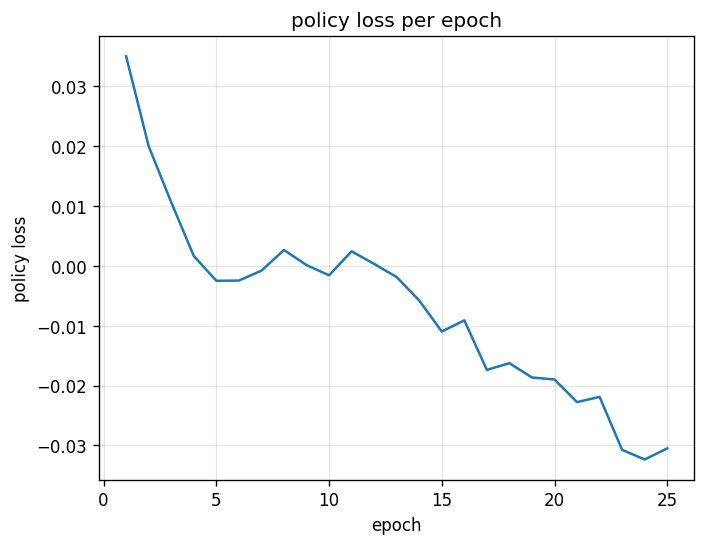
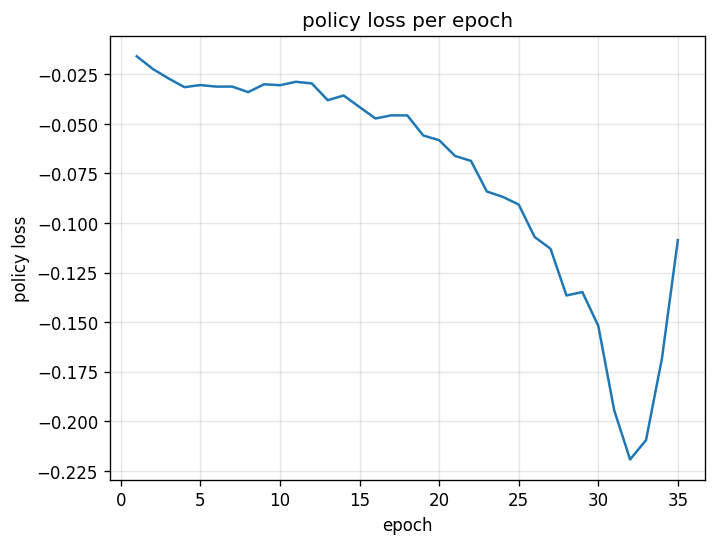
entropy

diff --git a/main.py b/main.py
@@ -46,10 +46,11 @@ class Policy(nn.Module):
         action = torch.tanh(u)
         log_prob -= (2 * (np.log(2) - u - nn.functional.softplus(-2 * u))).sum(-1) # Apparently this adds numerical stability
 
-        return action, log_prob
+        entropy = dist.entropy().sum(-1)
+        return action, log_prob, entropy
 
 
-def train(lr=1e-3, epochs=25, batch_size=90000, gamma=0.985, render=False):
+def train(lr=1e-3, epochs=35, batch_size=90000, gamma=0.985, entropy_coef=0.01, render=False):
     os.makedirs(CHECKPOINT_DIR, exist_ok=True)
 
     env = gym.make(ENV_ID, **ENV_KWARGS)
@@ -60,8 +61,8 @@ def train(lr=1e-3, epochs=25, batch_size=90000, gamma=0.985, render=False):
 
     model = Policy(obs_dim, n_actions)
     
-    def compute_loss(log_prob, weights):
-        return -(log_prob*weights).mean()
+    def compute_loss(log_prob, weights, entropy):
+        return -(log_prob*weights).mean() - entropy_coef * entropy.mean()
 
     optimizer = Adam(model.parameters(), lr=lr)
 
@@ -69,7 +70,7 @@ def train(lr=1e-3, epochs=25, batch_size=90000, gamma=0.985, render=False):
         obs, _ = demo_env.reset()
         done = False
         while not done:
-            act, _ = model.act(torch.as_tensor(obs, dtype=torch.float32))
+            act, _, _ = model.act(torch.as_tensor(obs, dtype=torch.float32))
             obs, _, terminated, truncated, _ = demo_env.step(act.detach().numpy())
             done = terminated or truncated
     
@@ -84,6 +85,7 @@ def train(lr=1e-3, epochs=25, batch_size=90000, gamma=0.985, render=False):
         batch_obs = []
         batch_acts = []
         batch_log_probs = []
+        batch_entropies = []
         batch_weights = []
         batch_rets = []
         batch_lens = []
@@ -98,13 +100,14 @@ def train(lr=1e-3, epochs=25, batch_size=90000, gamma=0.985, render=False):
             batch_obs.append(obs.copy())
 
             # act in the environment
-            act, log_probs = model.act(torch.as_tensor(obs, dtype=torch.float32))
+            act, log_probs, entropy = model.act(torch.as_tensor(obs, dtype=torch.float32))
             obs, rew, terminated, truncated, _ = env.step(act.detach().numpy())
             done = terminated or truncated
 
             # save action, reward
             batch_acts.append(act)
             batch_log_probs.append(log_probs)
+            batch_entropies.append(entropy)
             ep_rews.append(rew)
 
             if done:
@@ -129,7 +132,7 @@ def train(lr=1e-3, epochs=25, batch_size=90000, gamma=0.985, render=False):
         optimizer.zero_grad()
         weights = torch.as_tensor(batch_weights, dtype=torch.float32)
         weights = (weights - weights.mean()) / (weights.std())
-        batch_loss = compute_loss(torch.stack(batch_log_probs), weights)
+        batch_loss = compute_loss(torch.stack(batch_log_probs), weights, torch.stack(batch_entropies))
         batch_loss.backward()
         optimizer.step()
         return batch_loss.item(), batch_rets, batch_lens
@@ -187,7 +190,7 @@ def demo(checkpoint_path, n_episodes=5):
         total = 0.0
         while not done:
             with torch.no_grad():
-                act, _ = model.act(torch.as_tensor(obs, dtype=torch.float32))
+                act, _, _ = model.act(torch.as_tensor(obs, dtype=torch.float32))
             obs, rew, terminated, truncated, _ = env.step(act.numpy())
             total += rew
             done = terminated or truncated
@@ -200,7 +203,7 @@ if __name__ == '__main__':
     parser = argparse.ArgumentParser()
     parser.add_argument("mode", choices=["train", "demo"])
     parser.add_argument("--checkpoint", type=str, help="path to checkpoint (required for demo)")
-    parser.add_argument("--episodes", type=int, default=5, help="number of demo episodes")
+    parser.add_argument("--episodes", type=int, default=10, help="number of demo episodes")
     parser.add_argument("--render", action="store_true", help="render an episode each epoch during training")
     args = parser.parse_args()
 
